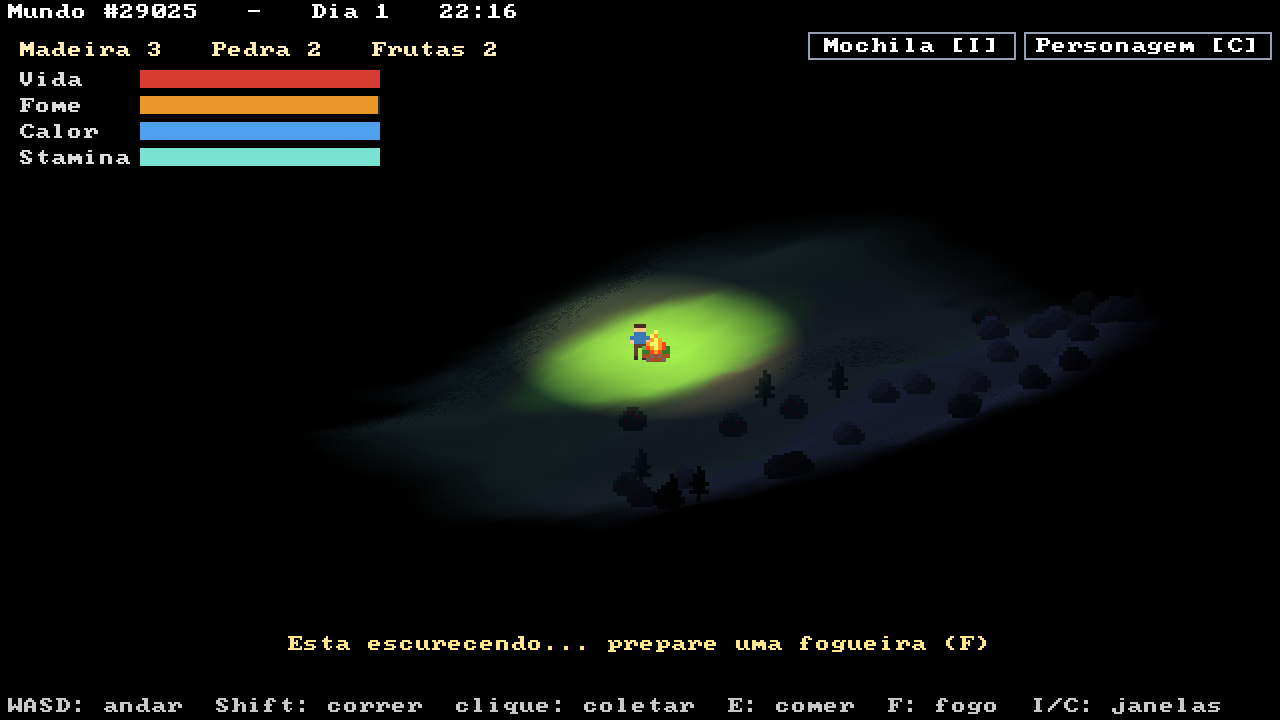
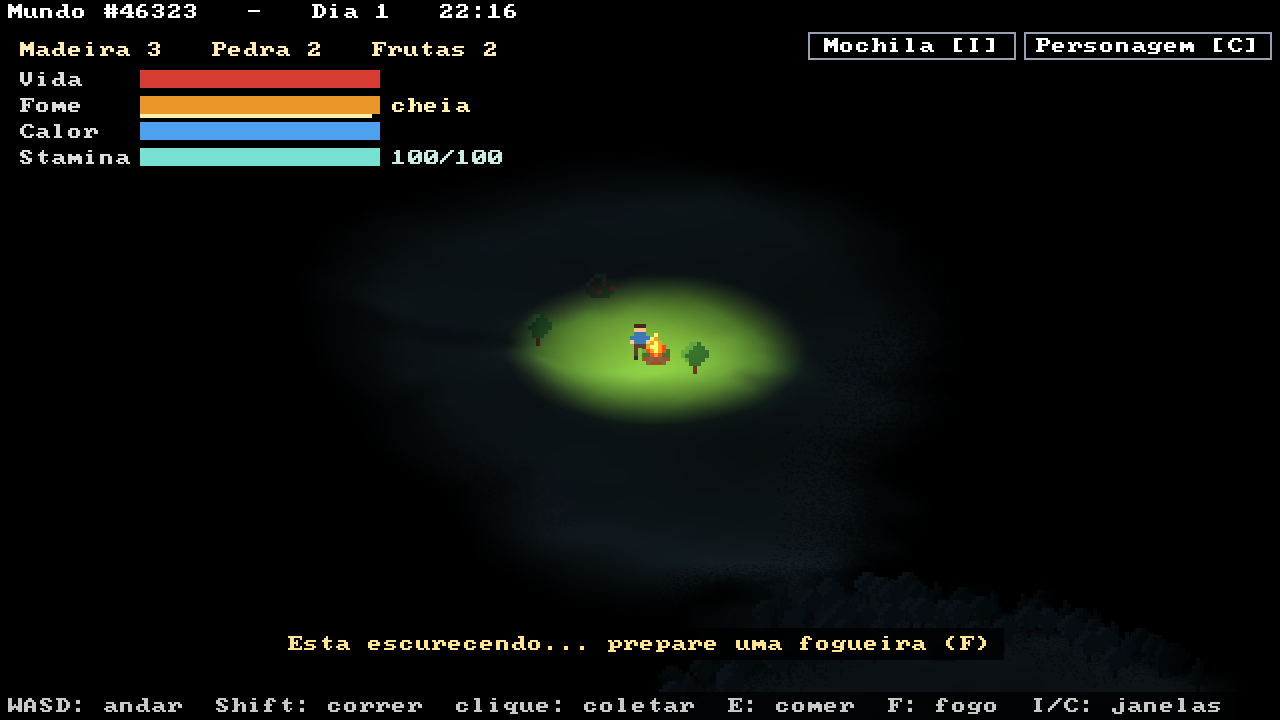
Mochila com peso, skills que sobem e caem, corrida e stamina

diff --git a/comum.h b/comum.h
@@ -151,6 +151,8 @@
 .equ G_SKILL,    324         // 5 skills (float 0..100)
 .equ G_SKIDLE,   344         // 5 x u16: quadros sem treinar cada skill
 .equ G_SKLAST,   356         // 5 x u8: ultimo nivel anunciado
+.equ G_STAMAX,   364         // stamina maxima (float; cresce com corrida e natacao)
+.equ G_SATED,    368         // quadros que a fome ainda fica cheia (vida so sobe assim)
 .equ GSIZE,      384
 
 // skills
@@ -160,6 +162,7 @@
 .equ SK_MINE,    3           // mineracao
 .equ SK_STR,     4           // forca
 .equ NSKILL,     5
+.equ SATTIME,    3600        // fome cheia segura 60 s antes de cair
 .equ SKREST,     1800        // 30 s sem treinar: a skill comeca a cair
 .equ G_SKSWIM,   (G_SKILL + 4 * SK_SWIM)
 .equ G_SKRUN,    (G_SKILL + 4 * SK_RUN)
@@ -257,3 +260,4 @@
 .equ F_P105,     200
 .equ F_INV100,   204
 .equ F_TENTH,    208
+.equ F_STAMSK,   212

diff --git a/README.md b/README.md
@@ -2,7 +2,7 @@
 
 Um jogo de sobrevivência no estilo Factorio, escrito em **assembly ARM64** (AArch64).
 
-Você aparece sozinho num mundo gerado aleatoriamente: terreno contínuo, mar, praias, florestas, montanhas com neve. Precisa coletar madeira, pedra e frutas, não morrer de fome e passar a noite perto de uma fogueira. Quanto mais você faz uma coisa, melhor fica nela.
+Você aparece sozinho num mundo gerado aleatoriamente: terreno contínuo, mar, praias, florestas, montanhas com neve. Precisa coletar madeira, pedra e frutas, não morrer de fome e passar a noite perto de uma fogueira. Quanto mais você faz uma coisa, melhor fica nela, e para se curar precisa estar de barriga cheia.
 
 ![Dia](screenshots/jogo.png)
 ![Noite](screenshots/noite.png)
@@ -34,14 +34,15 @@ Você aparece sozinho num mundo gerado aleatoriamente: terreno contínuo, mar, p
 
 **Sobrevivência**
 
-- **Fome:** cai sempre (de cheia a vazia em uns 6 minutos). Sem comida, a vida cai.
+- **Fome:** quando enche (comendo), fica **cheia por 60 segundos** antes de começar a cair. Comer de novo com ela cheia renova esse tempo. Depois cai de cheia a vazia em uns 6 minutos. Sem comida, a vida cai.
 - **Calor:** de dia fica tudo bem. À noite esfria; perto de uma fogueira acesa (5 células), esquenta. Sem calor, a vida cai.
-- **Vida:** volta devagar quando você está alimentado e aquecido.
+- **Vida:** só volta com a **fome cheia** (e sem passar frio). O HUD mostra "cheia" e um filete amarelo com o tempo que ainda falta.
 - **Dia e noite:** um dia dura 3 minutos. A noite escurece a tela de verdade; só a fogueira e uma luz fraca em volta do personagem iluminam.
 
 **Stamina e corrida**
 
-- Correr deixa o personagem ~1,7x mais rápido e gasta **stamina** (de cheia a vazia em uns 5 s).
+- Correr deixa o personagem ~1,7x mais rápido e gasta **stamina** (de cheia a vazia em uns 5 s, no começo).
+- A **stamina máxima** começa em 100 e cresce com as skills Corrida e Natação: +0,4 por ponto de cada uma, até 180. O HUD mostra atual/máximo.
 - Nadar também gasta a mesma stamina.
 - Ela volta parado em terra (rápido), andando (devagar) e na água rasa (mais devagar).
 - Se a stamina zerar, só dá para correr de novo quando ela voltar a 25.
@@ -69,8 +70,8 @@ Cada skill vai de nível 0 a 10.
 
 | Skill | Treina | Efeito no máximo |
 |---|---|---|
-| Natação | nadando | nada quase 2x mais rápido e cansa 60% menos |
-| Corrida | correndo | corre 2,2x mais rápido e cansa 50% menos |
+| Natação | nadando | nada quase 2x mais rápido, cansa 60% menos e +40 de stamina máxima |
+| Corrida | correndo | corre 2,2x mais rápido, cansa 50% menos e +40 de stamina máxima |
 | Lenhador | cortando árvores | corta 2x mais rápido |
 | Mineração | quebrando pedras | quebra 2x mais rápido |
 | Força | andando com mais de 60% do limite de peso | carrega até 60 kg |
@@ -126,7 +127,7 @@ sudo apt install libsdl3-dev   # ou compile o SDL3 a partir do código-fonte
 make run
 ```
 
-`./trilhos --shot` roda sem interação: tira screenshots, mede o tempo de cada quadro e faz um teste automático (coleta duas árvores, uma pedra e um arbusto, monta uma fogueira, come e passa a noite; corre, anda carregado, larga e recolhe uma pilha de pedras, vê a skill cair sem treino; depois nada num lago e vai para o mar aberto até o tubarão atacar).
+`./trilhos --shot` roda sem interação: tira screenshots, mede o tempo de cada quadro e faz um teste automático (coleta duas árvores, uma pedra e um arbusto, monta uma fogueira, come e passa a noite; corre, anda carregado, larga e recolhe uma pilha de pedras, vê a skill cair sem treino, confere que a vida só sobe com a fome cheia; depois nada num lago e vai para o mar aberto até o tubarão atacar).
 
 ## Próximos passos
 
